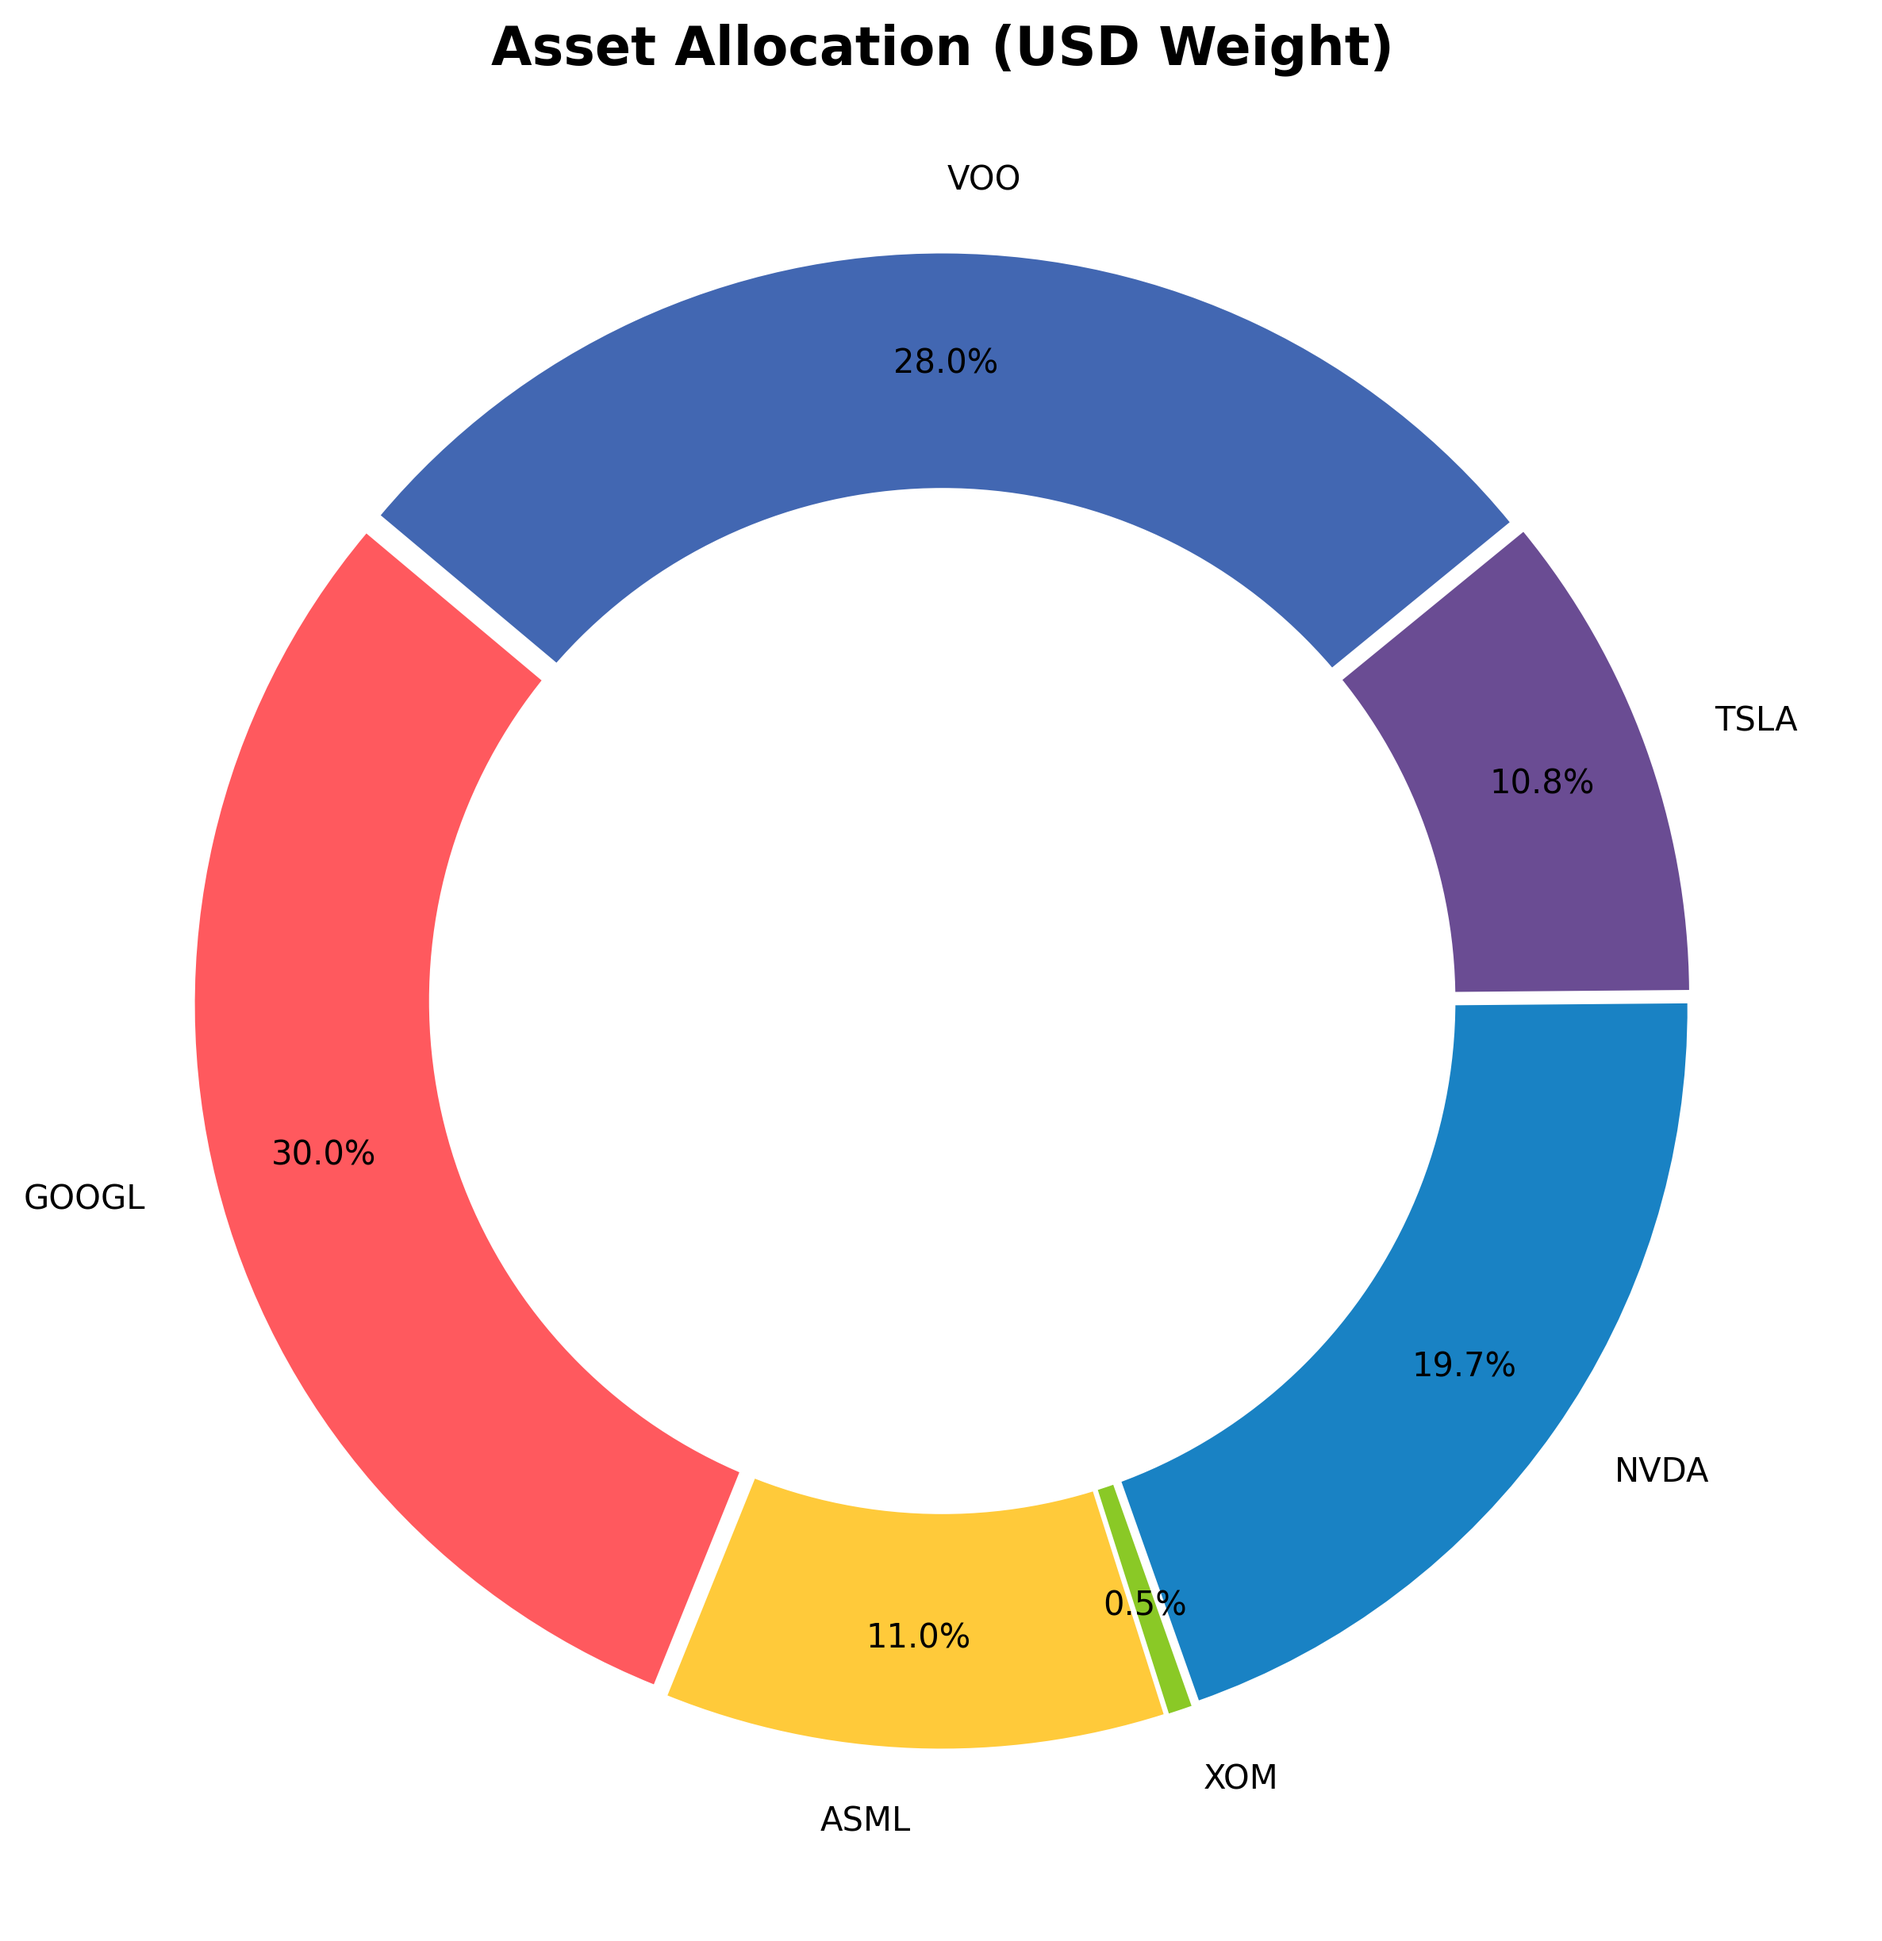
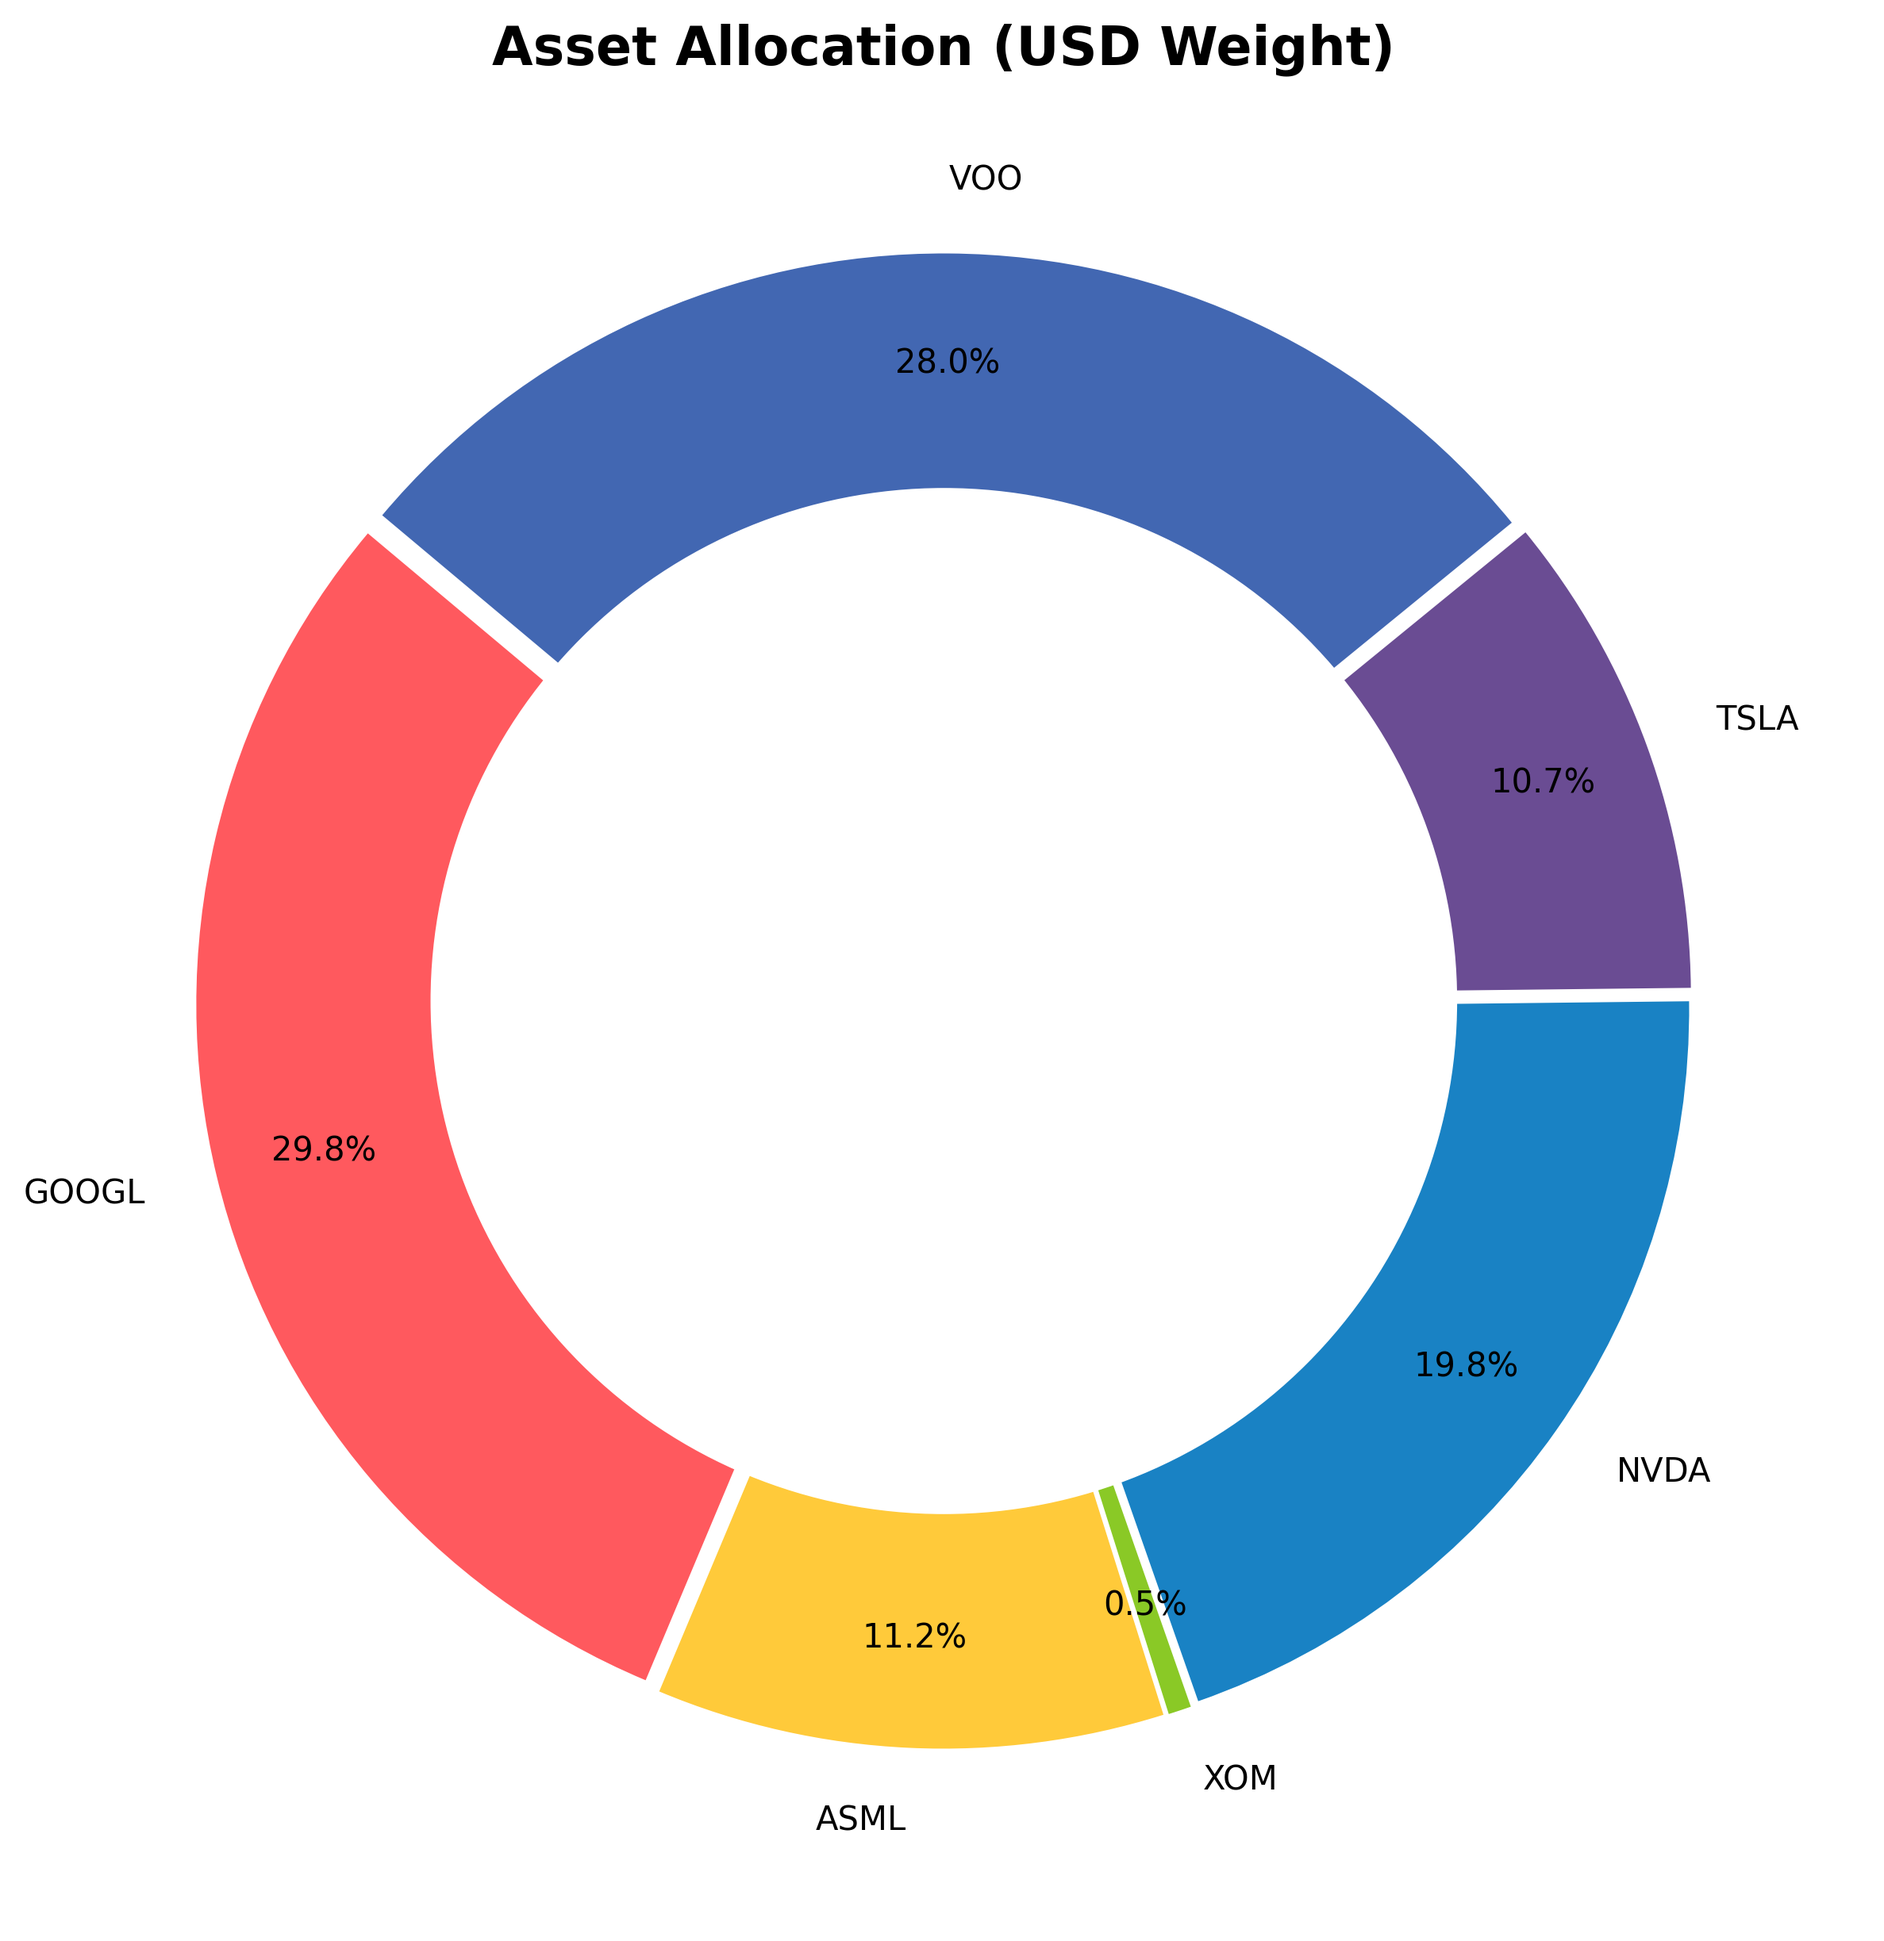
System Run: Analytics & Archive Update [skip ci]

diff --git a/README.md b/README.md
@@ -1,23 +1,23 @@
 # 📊 Portfolio Dashboard | מעקב תיק השקעות
-**Last Update:** 04/08/2026 01:11 | **USD/ILS:** ₪3.044
+**Last Update:** 04/08/2026 19:14 | **USD/ILS:** ₪3.005
 
 ## 💰 Portfolio Summary | סיכום התיק
 | Metric | Value | נתון |
 | :--- | :--- | :--- |
-| **Current Value** | `₪181,875` | **שווי נוכחי** |
-| **Total Invested** | `₪130,500` | **סך השקעה** |
-| **Total Profit/Loss** | `+39.37%` (₪51,375) | **רווח/הפסד כולל** |
-| **Daily Change** | `+2.87%` | **שינוי יומי** |
+| **Current Value** | `₪181,991` | **שווי נוכחי** |
+| **Total Invested** | `₪128,824` | **סך השקעה** |
+| **Total Profit/Loss** | `+41.27%` (₪53,167) | **רווח/הפסד כולל** |
+| **Daily Change** | `+4.27%` | **שינוי יומי** |
 
 ## 📜 Holdings | פירוט החזקות
 | Ticker | Shares | Avg. Cost | Current Price | P&L % | P&L ILS |
 | :--- | :--- | :--- | :--- | :--- | :--- |
-| GOOGL | 48 | $187.99 | $373.56 | 🟢 +98.71% | ₪27,114 |
-| ASML | 4 | $934.51 | $1,642.51 | 🟢 +75.76% | ₪8,621 |
-| XOM | 2 | $126.08 | $155.05 | 🟢 +22.98% | ₪176 |
-| NVDA | 57 | $148.62 | $206.69 | 🟢 +39.07% | ₪10,076 |
-| TSLA | 20 | $436.45 | $322.13 | 🔴 -26.19% | ₪-6,960 |
-| VOO | 24 | $527.38 | $696.41 | 🟢 +32.05% | ₪12,349 |
+| GOOGL | 48 | $187.99 | $375.79 | 🟢 +99.90% | ₪27,087 |
+| ASML | 4 | $934.51 | $1,693.45 | 🟢 +81.21% | ₪9,122 |
+| XOM | 2 | $126.08 | $152.99 | 🟢 +21.34% | ₪162 |
+| NVDA | 57 | $148.62 | $210.56 | 🟢 +41.68% | ₪10,609 |
+| TSLA | 20 | $436.45 | $324.75 | 🔴 -25.59% | ₪-6,713 |
+| VOO | 24 | $527.38 | $706.25 | 🟢 +33.92% | ₪12,900 |
 
 ## 📈 Charts | גרפים
 ![Performance](./data_hub/portfolio_performance.png)
